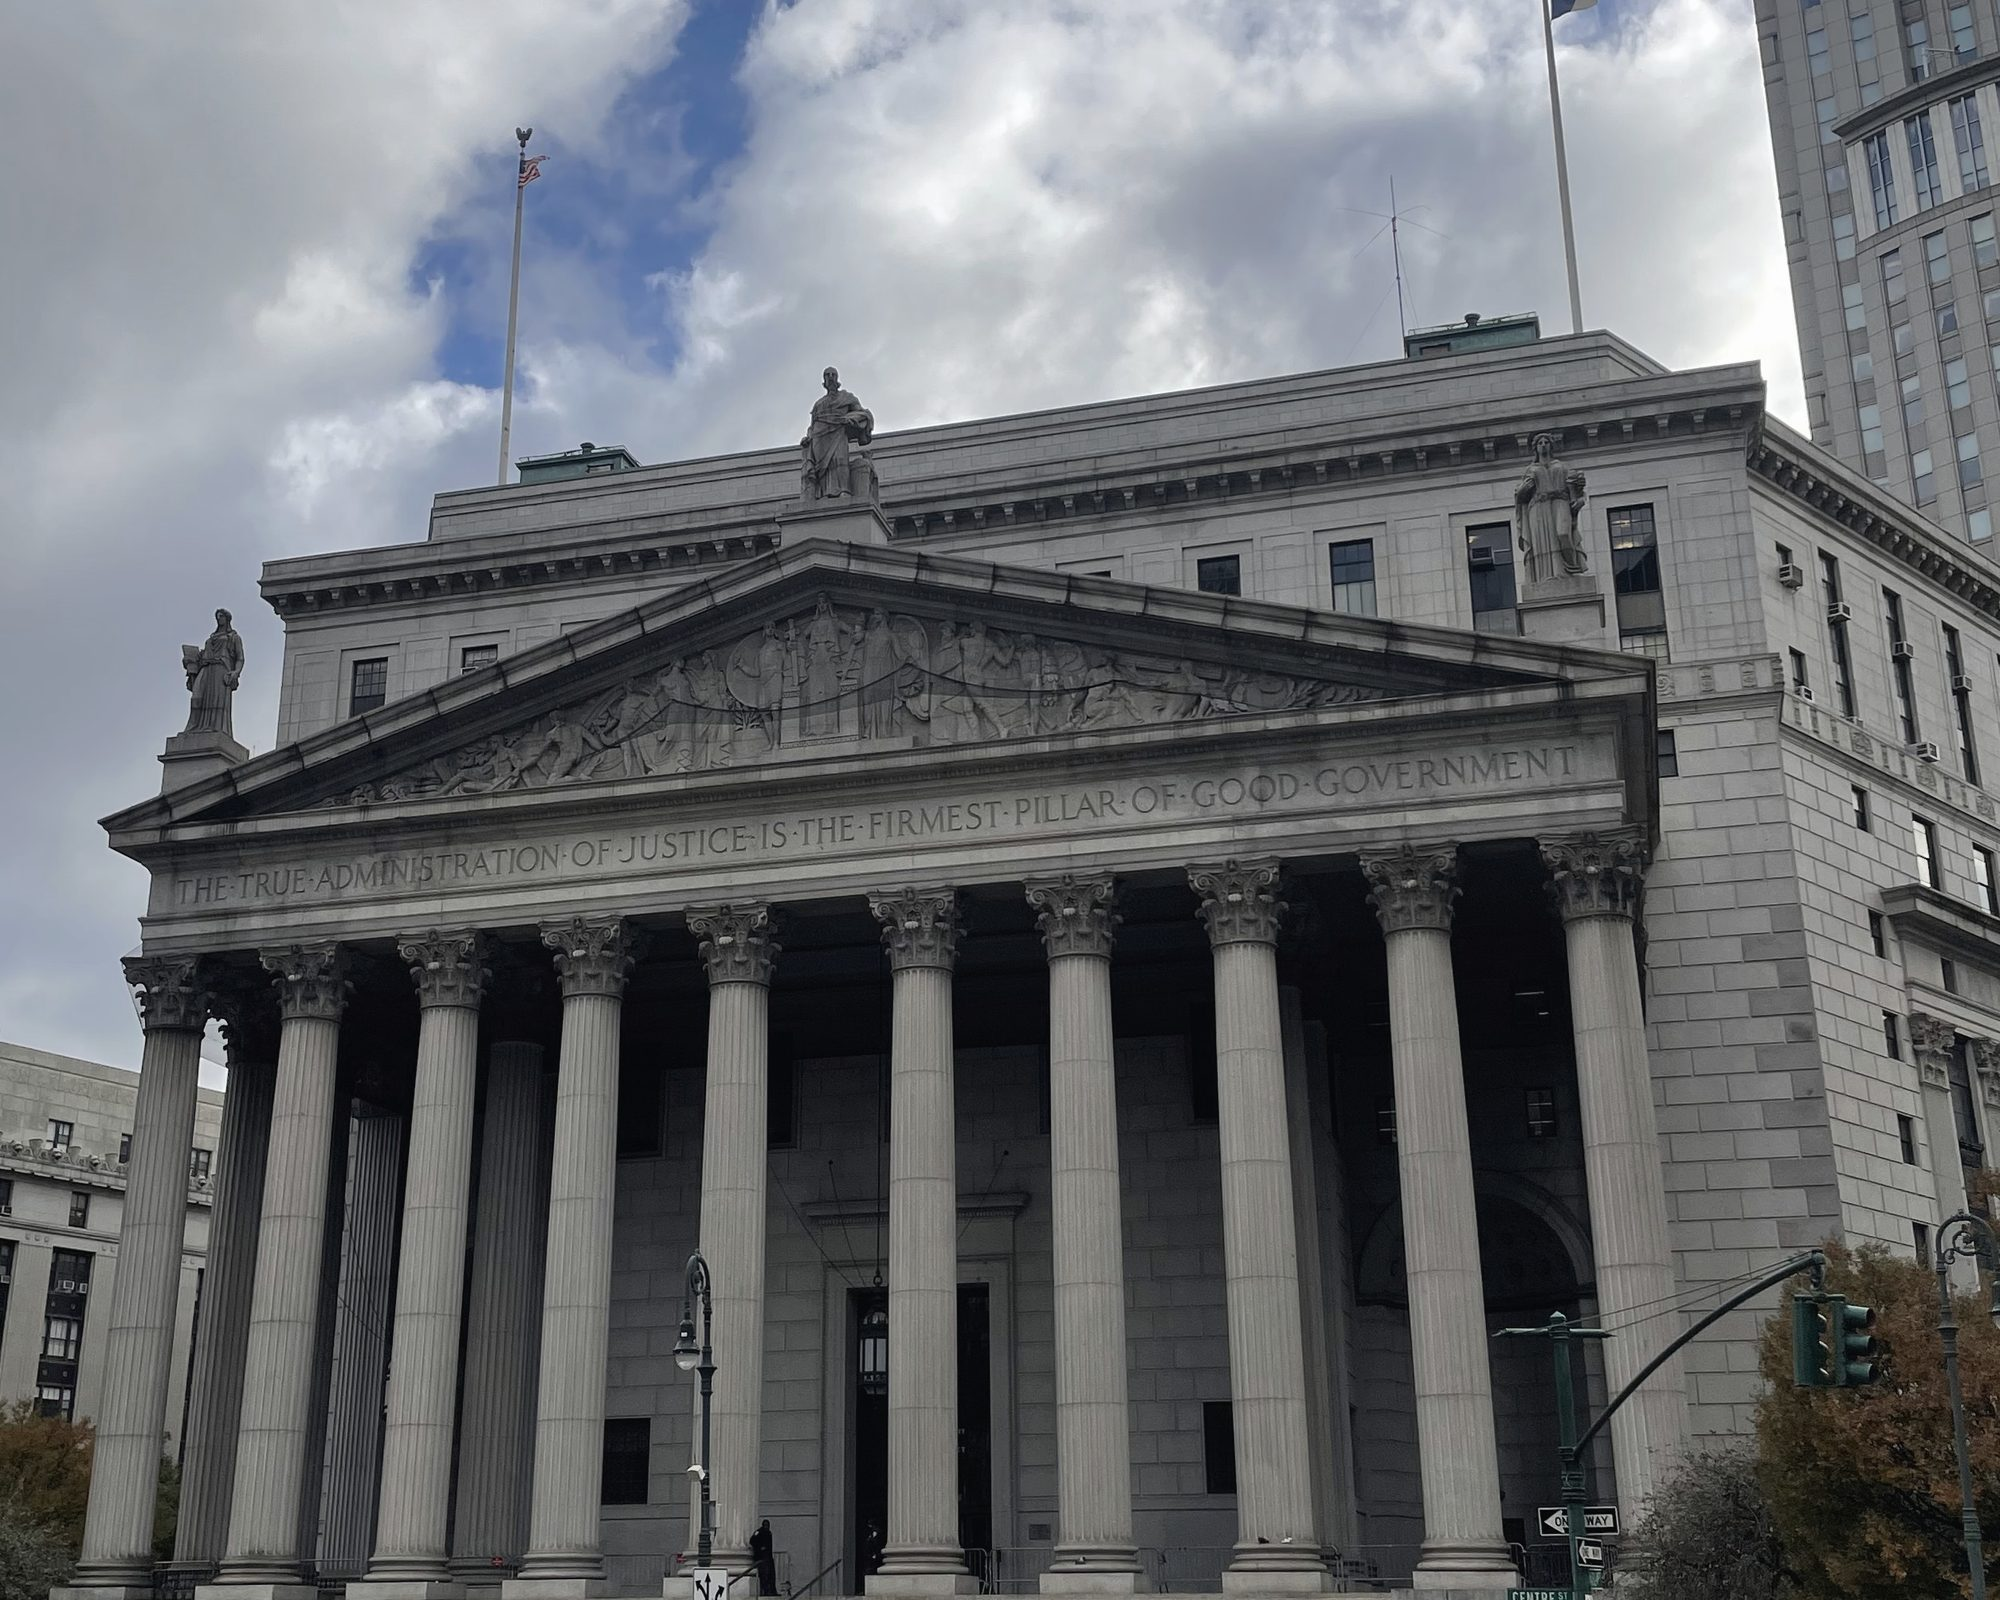
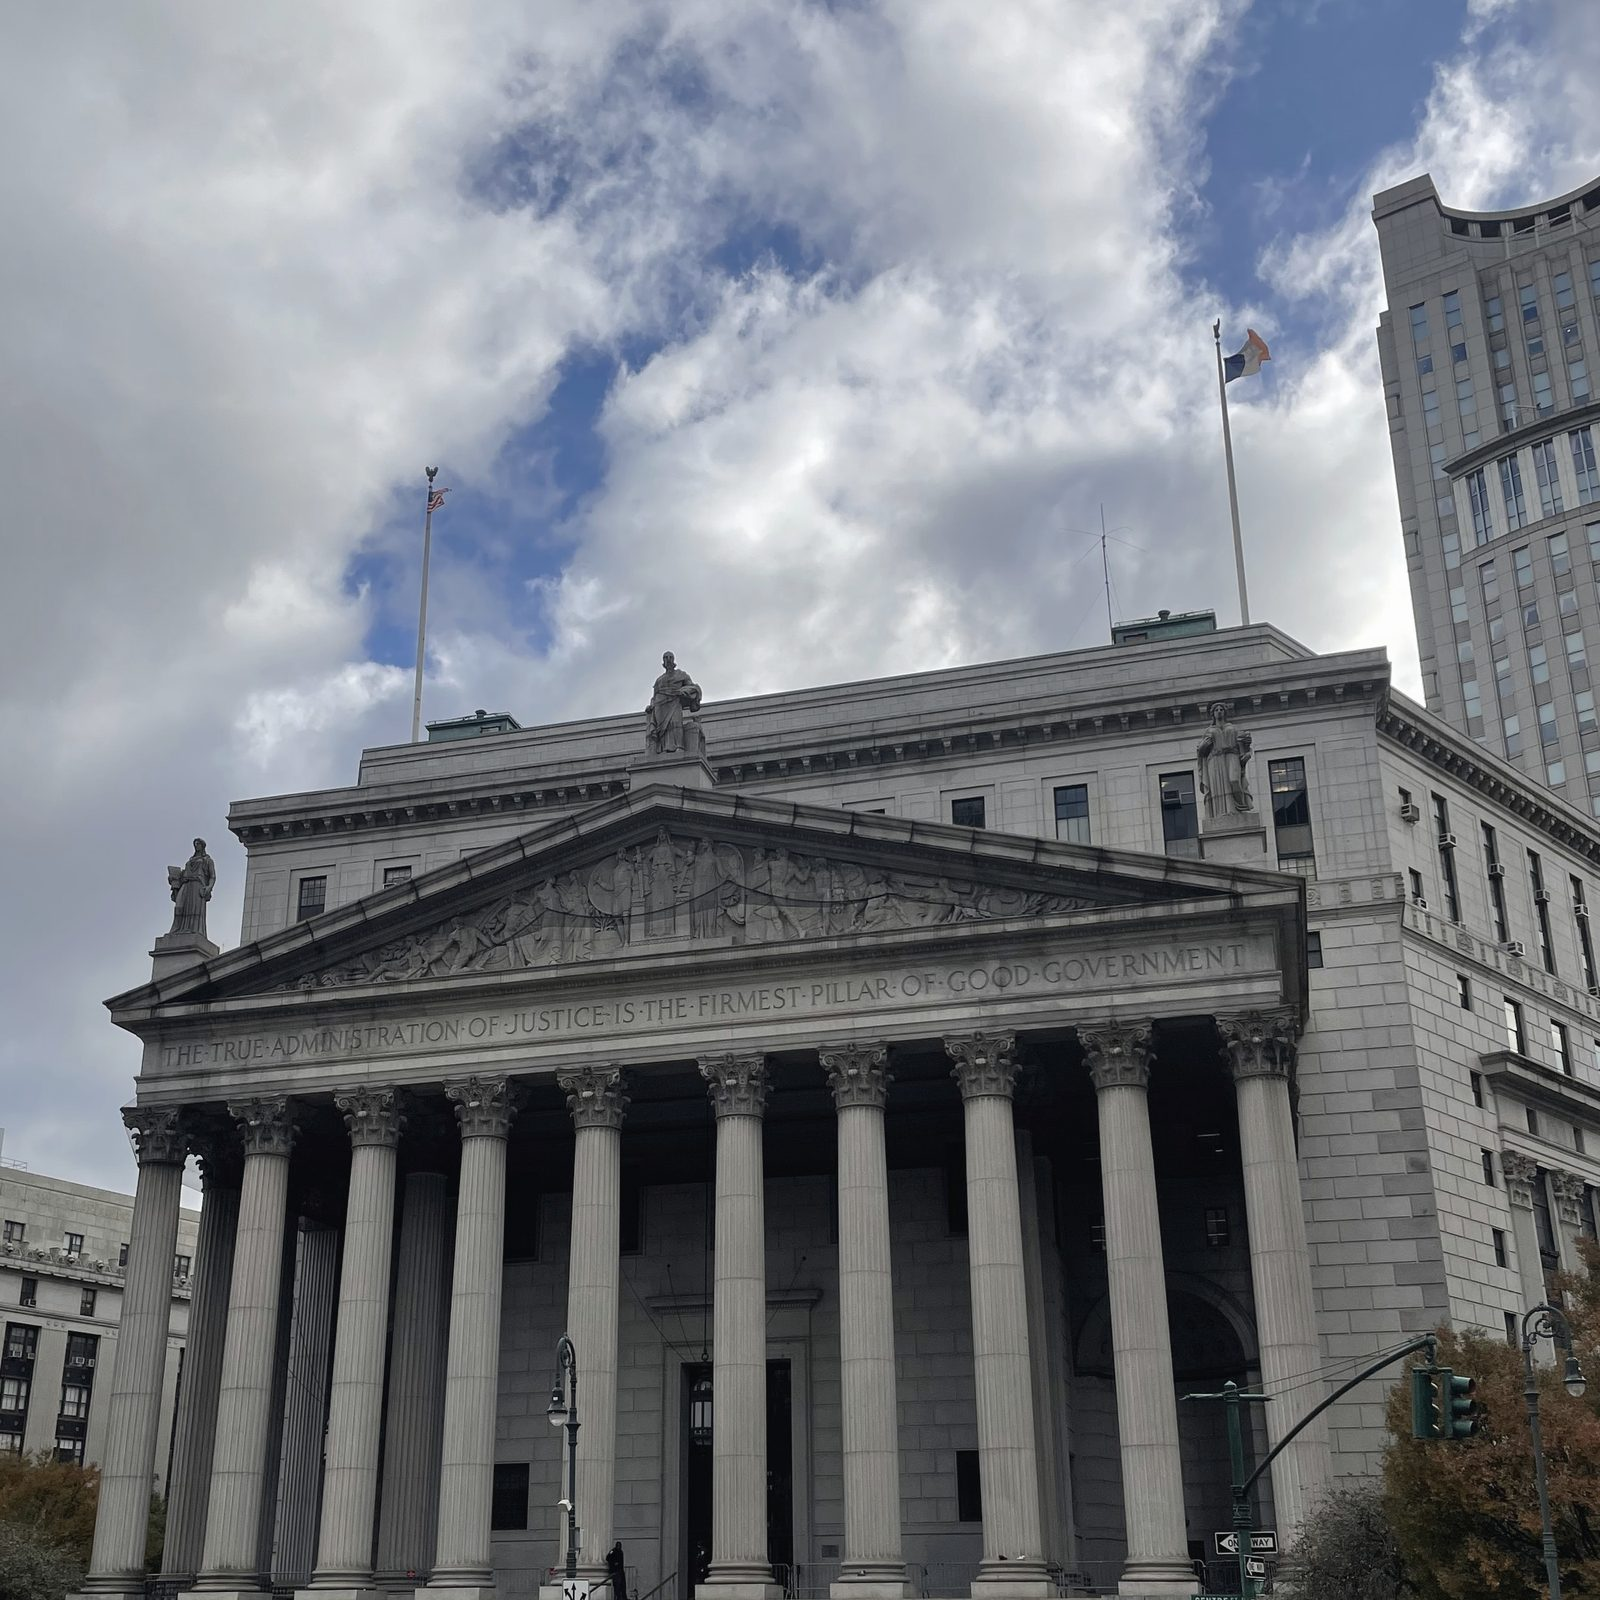
Half-bleed photo layout and direction-aware transition
- Photos fill the right side (desktop) / top band (mobile) below the header
- Re-crop the three photos to 1:1; add optional focus point per project
- Mirror the displacement when moving back (left arrow, right swipe,
  earlier bar, back to the door)

Claude-Session: https://claude.ai/code/session_01R2ZvtRVDcmdzp7K8KNnyNC

diff --git a/components/studio/controller.ts b/components/studio/controller.ts
@@ -36,6 +36,7 @@ export function mountStudio(root: HTMLElement, lang: Lang): () => void {
   let current = view === "gallery" ? projectIdx + 1 : 0;
   let busy = false;
   let pending: number | null = null;
+  let pendingDir = 1;
   let paused = reduce;
   let hoverPause = false;
   let elapsed = 0;
@@ -109,13 +110,15 @@ export function mountStudio(root: HTMLElement, lang: Lang): () => void {
     );
   }
 
-  function transitionTo(target: number, done?: () => void) {
+  // dir: 1 moving forward, -1 moving back; mirrors the displacement direction.
+  function transitionTo(target: number, done?: () => void, dir = target > current ? 1 : -1) {
     if (target === current) {
       done?.();
       return;
     }
     if (busy) {
       pending = target;
+      pendingDir = dir;
       return;
     }
     busy = true;
@@ -127,7 +130,7 @@ export function mountStudio(root: HTMLElement, lang: Lang): () => void {
       if (pending !== null && pending !== current) {
         const p = pending;
         pending = null;
-        transitionTo(p);
+        transitionTo(p, undefined, pendingDir);
       } else pending = null;
     };
     if (gl && slides[target]) {
@@ -140,6 +143,7 @@ export function mountStudio(root: HTMLElement, lang: Lang): () => void {
         finish();
         return;
       }
+      plane.uniforms.direction.value = dir;
       curtains.enableDrawing();
       const t0 = performance.now();
       const step = (now: number) => {
@@ -175,7 +179,7 @@ export function mountStudio(root: HTMLElement, lang: Lang): () => void {
     }, DUR * 0.55);
   }
 
-  function go(i: number, mode?: "push" | "replace") {
+  function go(i: number, mode?: "push" | "replace", dir = 1) {
     projectIdx = (i + PROJECTS.length) % PROJECTS.length;
     elapsed = 0;
     const url = projectPath(lang, PROJECTS[projectIdx].id);
@@ -183,7 +187,7 @@ export function mountStudio(root: HTMLElement, lang: Lang): () => void {
     else if (mode === "replace") history.replaceState(null, "", url);
     syncPage();
     swapInfo(projectIdx);
-    transitionTo(projectIdx + 1);
+    transitionTo(projectIdx + 1, undefined, dir);
   }
 
   function enter(i: number, push: boolean) {
@@ -259,7 +263,8 @@ export function mountStudio(root: HTMLElement, lang: Lang): () => void {
   on<MouseEvent>($("bars"), "click", (e) => {
     const b = (e.target as Element).closest<HTMLElement>(".bar");
     if (!b) return;
-    go(bars.indexOf(b), "replace");
+    const j = bars.indexOf(b);
+    go(j, "replace", j < projectIdx ? -1 : 1);
   });
   on($("pause"), "click", () => {
     paused = !paused;
@@ -273,7 +278,7 @@ export function mountStudio(root: HTMLElement, lang: Lang): () => void {
     if (e.key === "Escape" && menuOpen()) closeMenu();
     else if (view === "gallery" && !menuOpen()) {
       if (e.key === "ArrowRight") go(projectIdx + 1, "replace");
-      if (e.key === "ArrowLeft") go(projectIdx - 1, "replace");
+      if (e.key === "ArrowLeft") go(projectIdx - 1, "replace", -1);
     }
   });
   on(window, "popstate", () => {
@@ -297,7 +302,8 @@ export function mountStudio(root: HTMLElement, lang: Lang): () => void {
     swipe = null;
     if (Math.abs(dx) < 50 || Math.abs(dx) < Math.abs(dy) * 1.5) return;
     swiped = true;
-    go(projectIdx + (dx < 0 ? 1 : -1), "replace");
+    const dir = dx < 0 ? 1 : -1;
+    go(projectIdx + dir, "replace", dir);
   });
   on(root, "pointercancel", () => (swipe = null));
   on<MouseEvent>(root, "click", (e) => {
@@ -375,6 +381,7 @@ export function mountStudio(root: HTMLElement, lang: Lang): () => void {
       uniforms: {
         progress: { name: "uProgress", type: "1f", value: 0 },
         strength: { name: "uStrength", type: "1f", value: STRENGTH },
+        direction: { name: "uDirection", type: "1f", value: 1 },
       },
     });
     plane.onReady(() => {

diff --git a/components/studio/textures.ts b/components/studio/textures.ts
@@ -53,6 +53,15 @@ function artArea(W: number, H: number): Area {
   return { x: W * 0.08, y: H * 0.11, w: W * 0.84, h: H * 0.44 };
 }
 
+// Photos bleed to the edge: right side below the header on desktop, top band on mobile.
+function photoArea(W: number, H: number, k: number): Area {
+  if (W / H > 1.1) {
+    const top = 5.25 * 16 * k;
+    return { x: W * 0.45, y: top, w: W * 0.55, h: H - top };
+  }
+  return { x: 0, y: 4.5 * 16 * k, w: W, h: H * 0.52 };
+}
+
 function toImg(c: HTMLCanvasElement, type = "image/jpeg") {
   return new Promise<HTMLImageElement>((res) => {
     const im = new Image();
@@ -288,18 +297,24 @@ function drawBlank(bg: string) {
   return toImg(c);
 }
 
-// A real capture, fitted into the same area the placeholder drawings use.
+// A photo or capture, cropped to fill the photo area around its focus point.
 async function drawCapture(p: Project, src: string) {
   const img = new Image();
   img.src = src;
   await img.decode();
-  const { c, g, W, H } = newCanvas();
+  const { c, g, W, H, k } = newCanvas();
   g.fillStyle = p.bg;
   g.fillRect(0, 0, W, H);
-  const A = artArea(W, H);
-  const s = Math.min(A.w / img.naturalWidth, A.h / img.naturalHeight);
+  const A = photoArea(W, H, k);
+  const s = Math.max(A.w / img.naturalWidth, A.h / img.naturalHeight);
   const w = img.naturalWidth * s, h = img.naturalHeight * s;
-  g.drawImage(img, A.x + (A.w - w) / 2, A.y + (A.h - h) / 2, w, h);
+  const [fx, fy] = p.focus ?? [0.5, 0.5];
+  g.save();
+  g.beginPath();
+  g.rect(A.x, A.y, A.w, A.h);
+  g.clip();
+  g.drawImage(img, A.x + (A.w - w) * fx, A.y + (A.h - h) * fy, w, h);
+  g.restore();
   return toImg(c);
 }
 

diff --git a/components/studio/shaders.ts b/components/studio/shaders.ts
@@ -1,4 +1,5 @@
 // Displacement transition from the mockup: activeTex slides out, nextTex slides in.
+// uDirection is 1 moving forward and -1 moving back, which mirrors the displacement.
 export const VERTEX_SHADER = `
   precision mediump float;
   attribute vec3 aVertexPosition;
@@ -29,10 +30,11 @@ export const FRAGMENT_SHADER = `
   uniform sampler2D nextTex;
   uniform float uProgress;
   uniform float uStrength;
+  uniform float uDirection;
   void main() {
     float d = texture2D(displacement, vDispUv).r;
-    vec2 a = vec2(vActiveUv.x - uProgress * d * uStrength, vActiveUv.y);
-    vec2 n = vec2(vNextUv.x + (1.0 - uProgress) * d * uStrength, vNextUv.y);
+    vec2 a = vec2(vActiveUv.x - uDirection * uProgress * d * uStrength, vActiveUv.y);
+    vec2 n = vec2(vNextUv.x + uDirection * (1.0 - uProgress) * d * uStrength, vNextUv.y);
     gl_FragColor = mix(texture2D(activeTex, a), texture2D(nextTex, n), uProgress);
   }
 `;

diff --git a/lib/projects.ts b/lib/projects.ts
@@ -18,8 +18,14 @@ export type Project = {
   link?: string;
   /** Shown instead of a link while the project is not public. */
   note?: Text;
-  /** Capture under public/, e.g. "/projects/trops.png". Without it the placeholder drawing is used. */
+  /**
+   * Photo or capture under public/, e.g. "/projects/trops.jpg". It fills the right side (desktop)
+   * or the top (mobile), both close to square, so compose it around 1:1. Without it the
+   * placeholder drawing is used.
+   */
   image?: string;
+  /** Point kept in view when the image is cropped to fill (0–1 each, like object-position). Default centre. */
+  focus?: [number, number];
   /** Slide background, used behind the image. */
   bg: string;
 };
